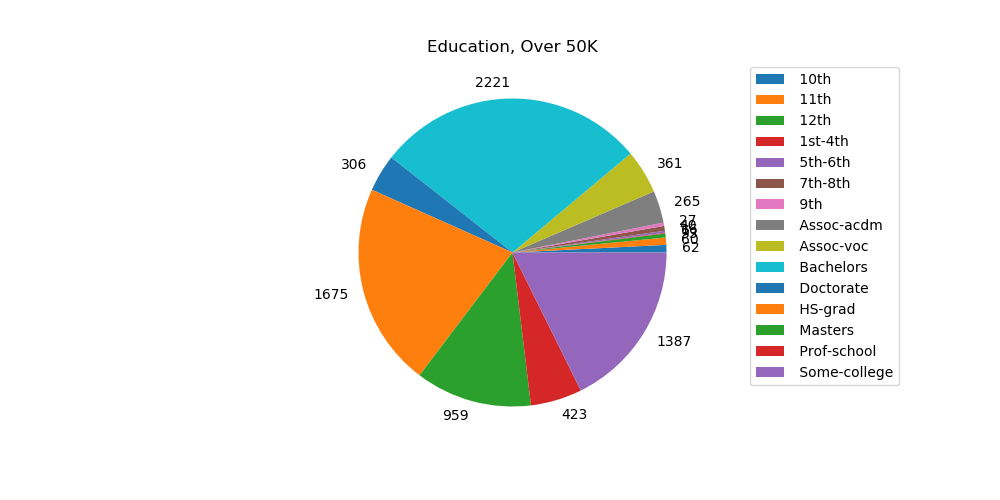
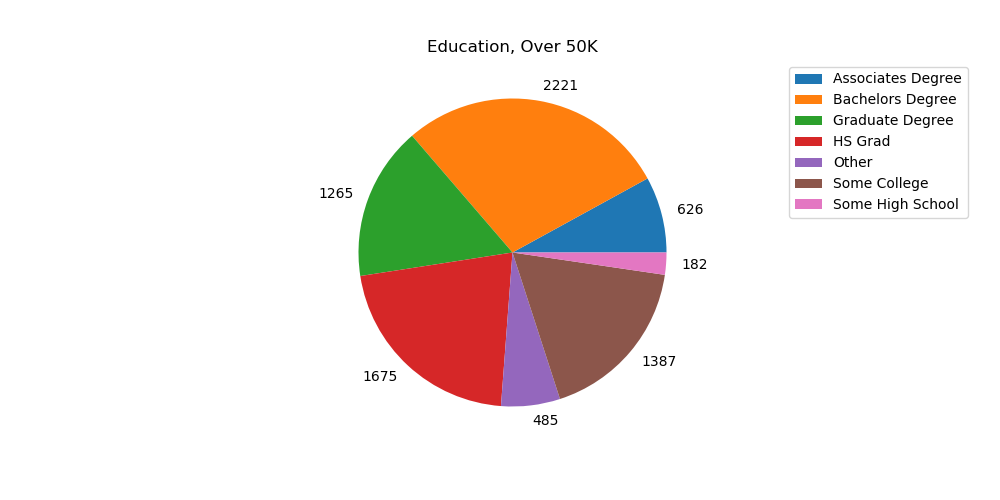
Cleaning up titles; bins for education; adding pies with counts over total population

Changed region(s): [[0.31, 0.15, 0.713, 0.87], [0.744, 0.12, 0.961, 0.78], [0.31, 0.36, 0.341, 0.39]]

diff --git a/visualizations.py b/visualizations.py
@@ -4,26 +4,36 @@ import matplotlib.pyplot as plt
 
 def main():
     df = load_data()
-
+    
     generateVsEarningsStackedBarChart(df, 'Age')
     generateVsEarningsStackedBarChart(df, 'Education')
-    generateVsEarningsStackedBarChart(df, 'Martial_Status')
+    generateVsEarningsStackedBarChart(df, 'Marital Status')
     generateVsEarningsStackedBarChart(df, 'Occupation', figSizeWidth = 25, figSizeLength = 10, xticksRotation = 25)
     generateVsEarningsStackedBarChart(df, 'Relationship')
     generateVsEarningsStackedBarChart(df, 'Race')
     generateVsEarningsStackedBarChart(df, 'Gender')
     generateVsEarningsStackedBarChart(df, 'From_USA')
-    generateVsEarningsStackedBarChart(df, 'Age_Bin')
-    generateVsEarningsStackedBarChart(df, 'Hours_Per_Week_Bin')
+    generateVsEarningsStackedBarChart(df, 'Hours Worked Per Week')
     plt.close('all') # to prevent memory warnings
+    
     generateOverUnderPieCharts(df, 'Education')
-    generateOverUnderPieCharts(df, 'Martial_Status')
+    generateOverUnderPieCharts(df, 'Marital Status')
     generateOverUnderPieCharts(df, 'Occupation')
     generateOverUnderPieCharts(df, 'Relationship')
     generateOverUnderPieCharts(df, 'Race')
     generateOverUnderPieCharts(df, 'Gender')
-    generateOverUnderPieCharts(df, 'Age_Bin')
-    generateOverUnderPieCharts(df, 'Hours_Per_Week_Bin')
+    generateOverUnderPieCharts(df, 'Age')
+    generateOverUnderPieCharts(df, 'Hours Worked Per Week')
+    plt.close('all') # to prevent memory warnings
+        
+    generateGeneralPopulationPieCharts(df, 'Education')
+    generateGeneralPopulationPieCharts(df, 'Martial_Status')
+    generateGeneralPopulationPieCharts(df, 'Occupation')
+    generateGeneralPopulationPieCharts(df, 'Relationship')
+    generateGeneralPopulationPieCharts(df, 'Race')
+    generateGeneralPopulationPieCharts(df, 'Gender')
+    generateGeneralPopulationPieCharts(df, 'Age')
+    generateGeneralPopulationPieCharts(df, 'Hours Worked Per Week')
 
 def load_data():
     #read in both datasets, combine into one
@@ -32,11 +42,20 @@ def load_data():
     test_data = pd.read_csv('adult.test.csv', names=headers)
     all_data = pd.concat([training_data, test_data])
 
-    #set some calculated fields
+    #set some calculated fields and clean column names for presentation
     all_data['Below_50k'] = all_data['Salarys'].apply(lambda x: False if x == ' >50K' else True)
     all_data['From_USA'] = all_data['NTVCTRY'].apply(lambda x: True if x == ' United-States' else False)
-    all_data['Age_Bin'] = pd.cut(all_data['Age'],bins=[0,19,29,39,49,59,69,120], labels=['17-19', '20-29', '30-39', '40-49', '50-59', '60-69', '70-90'])
-    all_data['Hours_Per_Week_Bin'] = pd.cut(all_data['HRSPERWK'], bins=[0,29,39,40,100], labels=['Under 30', '30-39', '40', 'Over 40'])
+    all_data['Age'] = pd.cut(all_data['Age'],bins=[0,19,29,39,49,59,69,120], labels=['17-19', '20-29', '30-39', '40-49', '50-59', '60-69', '70-90'])
+    all_data['Hours Worked Per Week'] = pd.cut(all_data['HRSPERWK'], bins=[0,29,39,40,59,1000], labels=['Under 30', '30-39', '40', '41-59','Over 60'])
+    all_data['Education'] = np.select([all_data['Education'].isin([' 9th',' 10th',' 11th',' 12th']),
+                                            all_data['Education'] == ' HS-grad', all_data['Education'].isin([' Assoc-acdm',' Assoc-voc']),
+                                            all_data['Education'] == ' Bachelors', all_data['Education'] == ' Some-college',
+                                            all_data['Education'].isin([' Masters',' Doctorate'])],
+                                          ['Some High School', 'HS Grad', 'Associates Degree', 'Bachelors Degree', 'Some College', 'Graduate Degree'], default='Other')
+
+    # Fix this typo is the data file
+    all_data['Marital Status'] = all_data['Martial_Status']
+    
     return all_data
 
 def generateVsEarningsStackedBarChart(df, columnName, figSizeWidth = 20, figSizeLength = 5, barWidth = 0.5,  xticksRotation = None):
@@ -74,15 +93,27 @@ def generateOverUnderPieCharts(df, columnName, figSizeWidth = 10, figSizeLength 
     above50k.plot.pie(y='CountOfAbove50k', labels=values, figsize=(figSizeWidth, figSizeLength))
     plt.ylabel('')
     plt.title(columnName + ', Over 50K')
-    plt.legend(labels=above50k.axes[0].values).set_bbox_to_anchor((1.1, .9, 0.1, 0.1))
+    plt.legend(labels=above50k.axes[0].values).set_bbox_to_anchor((1.2, .9, 0.1, 0.1))
     plt.savefig(f'vis/{columnName}_over50.png')
     
     values = list(below50k['CountOfBelow50k'])
     below50k.plot.pie(y='CountOfBelow50k', labels=values, figsize=(figSizeWidth, figSizeLength))
     plt.ylabel('')
     plt.title(columnName + ', Under 50K')
-    plt.legend(labels=below50k.axes[0].values).set_bbox_to_anchor((1.1, .9, 0.1, 0.1))
+    plt.legend(labels=below50k.axes[0].values).set_bbox_to_anchor((1.2, .9, 0.1, 0.1))
     plt.savefig(f'vis/{columnName}_under50.png')
+
+def generateGeneralPopulationPieCharts(df, columnName, figSizeWidth = 10, figSizeLength = 5, barWidth = 0.5,  xticksRotation = None):
+    df = df[[columnName, 'Below_50k']]
+    df = df.groupby(columnName).count().rename(columns={'Below_50k': 'Count'})
+    values = list(df['Count'])
+    df.plot.pie(y='Count', labels=values, figsize=(figSizeWidth, figSizeLength))
+    plt.ylabel('')
+    plt.title(columnName + ' Totals in Population')
+    plt.legend(labels=df.axes[0].values).set_bbox_to_anchor((1.2, .9, 0.1, 0.1))
+    plt.savefig(f'vis/{columnName}_total.png')
+    
+    
     
 if __name__ == "__main__":
     main()
